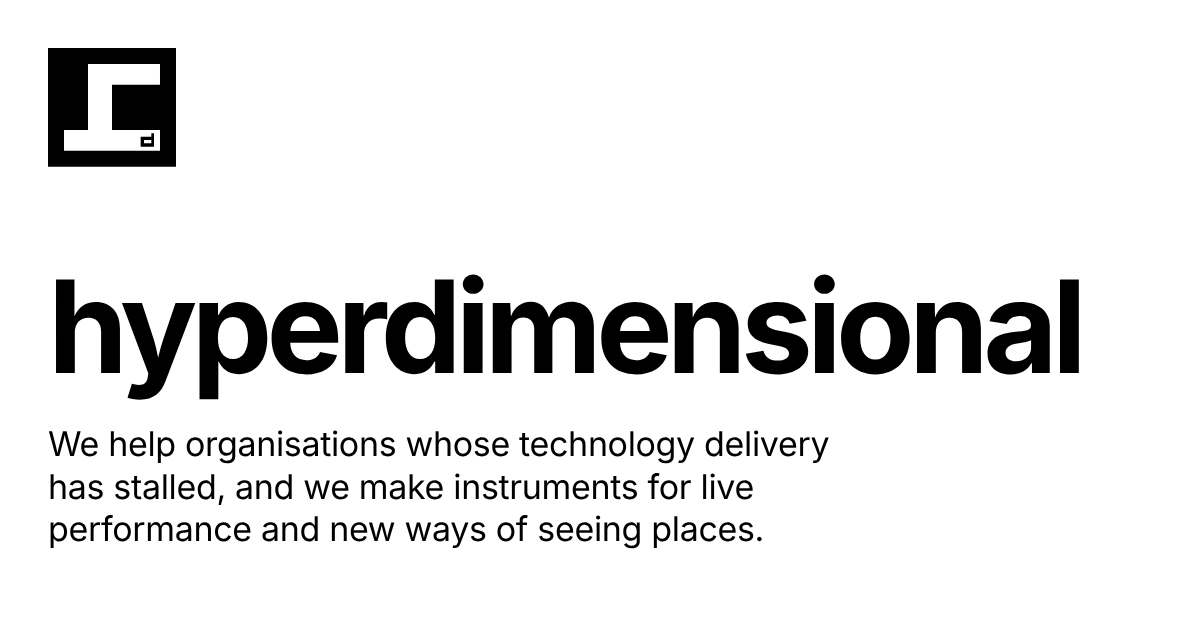
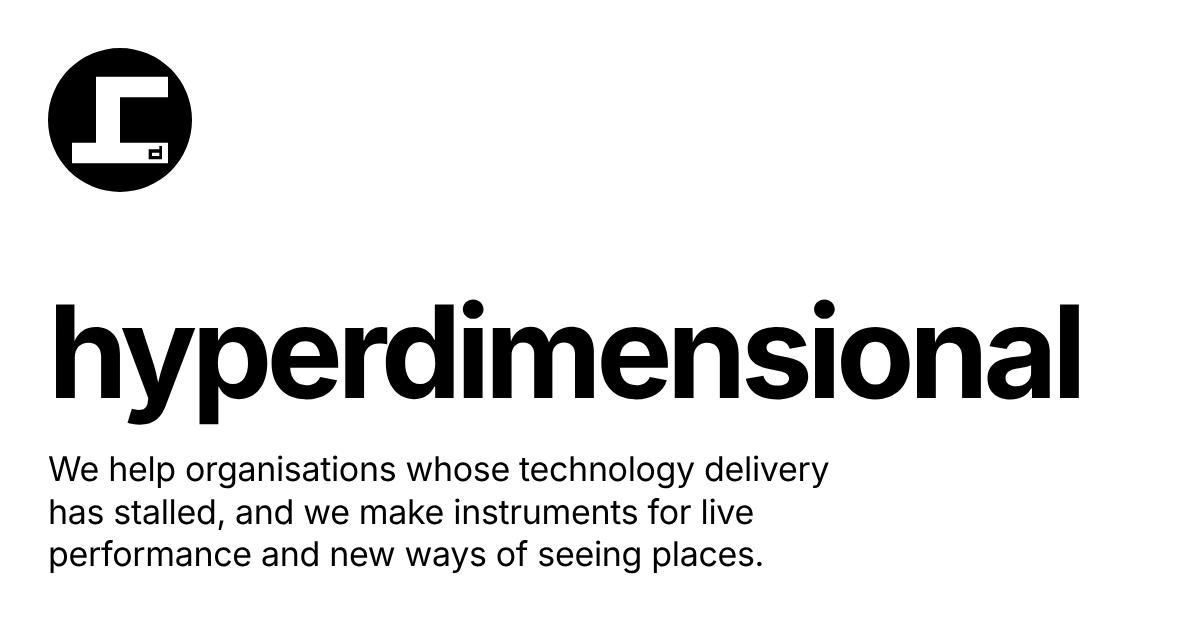
Make the mark circular
The black square becomes a disc 216 units across (18 glyph modules),
with the glyph centred inside it. That's the smallest whole number
of modules that clears the glyph's corners. The glyph itself is
unchanged: a render of it matches the previous one pixel for pixel.

The mark is now 18u wide (144px desktop, 108px mobile). The favicon
(16/32/48), touch icon and share image are regenerated from the new
SVG. A test pins the disc and glyph geometry.

Claude-Session: https://claude.ai/code/session_01EqXQJE7Jv298UTPypAxinV

Changed region(s): [[0.0308, 0.4222, 0.925, 0.9048], [0.0308, 0.0603, 0.185, 0.3016], [0.0308, 0.4222, 0.0617, 0.4825]]

diff --git a/src/_includes/css/site.css b/src/_includes/css/site.css
@@ -1,7 +1,8 @@
 /*
  * hyperdimensional — design tokens and layout.
- * Everything is measured in --u, the logo's own module: the mark is
- * 16 modules wide, so at --u: 8px it is exactly 128px. See docs/design.md.
+ * Everything is measured in --u, the logo's own module: the glyph is
+ * 16 modules wide inside an 18-module disc, so at --u: 8px the mark is
+ * exactly 144px. See docs/design.md.
  */
 :root {
   --u: 6px;
@@ -36,8 +37,8 @@ body {
   font: 400 1.0625rem/1.55 var(--sans);
 }
 
-/* ── Mark: 16 modules wide, on the top-left margin ─────────────────── */
-.mark { display: block; width: calc(var(--u) * 16); height: auto; color: var(--fg); }
+/* ── Mark: a disc 18 modules across, on the top-left margin ────────── */
+.mark { display: block; width: calc(var(--u) * 18); height: auto; color: var(--fg); }
 .mark-link { display: inline-block; color: inherit; }
 
 /* ── Hero: the name across the full measure, then the lede ─────────── */

diff --git a/docs/design.md b/docs/design.md
@@ -23,13 +23,17 @@ own description.
 
 ### Module, from the mark
 
-The mark is drawn on a grid. Horizontally its parts measure 2 / 3 / 3 / 6 / 2
-modules, **16 modules** in total. The site uses that module as its spacing unit, `--u`.
+The mark is a black disc with the glyph cut out of it. The glyph is drawn on a grid:
+horizontally its parts measure 3 / 3 / 6 modules, 12 modules wide, and the original square
+mark added 2 modules either side for **16 modules**. The disc is **18 modules** across
+(216 units). That's the smallest whole number of modules that clears the glyph's corners
+(97 units from its centre) with room to spare. The site uses that module as its spacing
+unit, `--u`.
 
-| Viewport | `--u` | Mark width (16u) | Page margin |
+| Viewport | `--u` | Mark width (18u) | Page margin |
 | --- | --- | --- | --- |
-| < 40em | 6px | 96px | 3u |
-| ≥ 40em | 8px | 128px | 6u |
+| < 40em | 6px | 108px | 3u |
+| ≥ 40em | 8px | 144px | 6u |
 
 Every gap is a multiple of `--u`:
 
@@ -92,11 +96,14 @@ None. The original glitch effect has been removed.
 - **Copyright is a range**, from the established year to the build year, computed at
   build time. Plain years, not Roman numerals: they read at a glance.
 - **No JavaScript.** The CSP forbids scripts outright.
-- **The mark's proportions are kept as drawn** (192×178). If the non-square
-  proportion is an export artefact, squaring it is a one-line change.
+- **The mark is a circle.** The glyph is unchanged from the original artwork, and
+  its pixels match it exactly. Only its container changed: the 192×178 square
+  became a 216-unit disc, with the glyph centred inside it. The glyph's thinner
+  horizontal bars (31 units, not 36) are kept as drawn.
 
 ## 4. Assets
 
 The share image (`og-image.png`, 1200×630) is a screenshot of the top of the built home page.
-The touch icon (`apple-touch-icon.png`, 180×180) is the mark, full-bleed. Regenerate both
-after design changes.
+The touch icon (`apple-touch-icon.png`, 180×180) is the disc on white, 148px across;
+iOS rounds the corners itself. `favicon.ico` (16/32/48px) is rendered from `logo.svg`.
+Regenerate all three after design changes.
